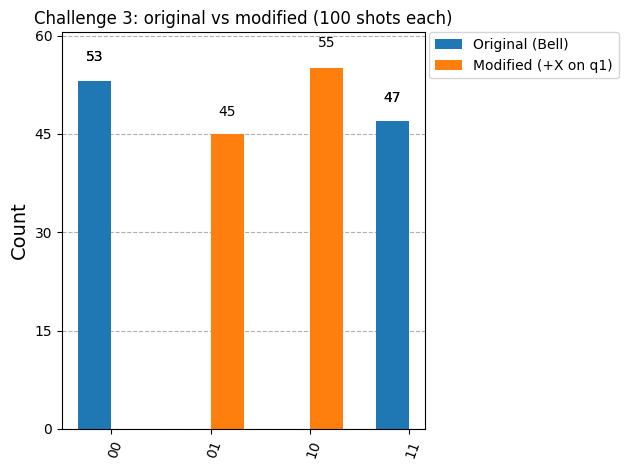
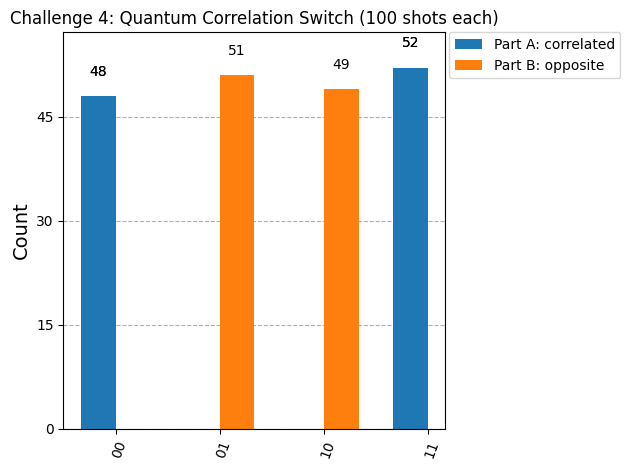
Add files via upload

diff --git a/challenge4.py b/challenge4.py
@@ -1,0 +1,99 @@
+"""
+IBM Qiskit Fall Fest 2026 - Challenge 4: Quantum Correlation Switch
+-------------------------------------------------------------------
+Part A (correlated)  : H(q0) -> CX(q0,q1)          => (|00> + |11>)/sqrt(2)
+Part B (opposite)    : H(q0) -> CX(q0,q1) -> X(q1) => (|01> + |10>)/sqrt(2)
+
+The X gate on qubit 1 is the "switch": without it the qubits agree,
+with it they disagree. Only gates from the workshop are used: H, CX, X.
+
+Install:  pip install qiskit qiskit-aer matplotlib pylatexenc
+Run:      python challenge_4.py
+"""
+
+import matplotlib
+matplotlib.use("Agg")  # remove this line to get pop-up windows instead of saved PNGs
+import matplotlib.pyplot as plt
+
+from qiskit import QuantumCircuit
+from qiskit_aer import AerSimulator
+from qiskit.visualization import plot_histogram
+
+SHOTS = 100
+sim = AerSimulator()
+
+
+def correlation_circuit(opposite: bool) -> QuantumCircuit:
+    """Build the 2-qubit circuit. opposite=False -> Part A, True -> Part B."""
+    name = "Part B: opposite (01/10)" if opposite else "Part A: correlated (00/11)"
+    qc = QuantumCircuit(2, 2, name=name)
+    qc.h(0)             # gate 1: superposition on qubit 0
+    qc.cx(0, 1)         # gate 2: entangle -> Bell state
+    if opposite:
+        qc.x(1)         # gate 3: the switch, flips qubit 1
+    qc.measure([0, 1], [0, 1])
+    return qc
+
+
+qc_a = correlation_circuit(opposite=False)   # 2 gates before measurement
+qc_b = correlation_circuit(opposite=True)    # 3 gates before measurement
+
+PREDICTIONS = {
+    qc_a.name: "Only 00 and 11 appear, ~50% each. 01 and 10 should NOT appear "
+               "(so not all four outcomes show up).",
+    qc_b.name: "Only 01 and 10 appear, ~50% each. 00 and 11 should NOT appear "
+               "(so not all four outcomes show up).",
+}
+
+# ---------------- Run ----------------
+results = {}
+for qc in (qc_a, qc_b):
+    print("=" * 66)
+    print(qc.name)
+    print(qc.draw(output="text"))
+    print("Prediction:", PREDICTIONS[qc.name])
+    counts = dict(sim.run(qc, shots=SHOTS).result().get_counts())
+    results[qc.name] = counts
+    print(f"Measured counts (100 shots): {counts}")
+
+# ---------------- Histograms ----------------
+for tag, qc in (("A", qc_a), ("B", qc_b)):
+    fig = plot_histogram(results[qc.name], title=qc.name)
+    fig.savefig(f"histogram_part_{tag}.png", bbox_inches="tight")
+    plt.close(fig)
+
+fig = plot_histogram(
+    list(results.values()),
+    legend=["Part A: correlated", "Part B: opposite"],
+    title="Challenge 4: Quantum Correlation Switch (100 shots each)",
+)
+fig.savefig("histogram_comparison.png", bbox_inches="tight")
+plt.close(fig)
+print("\nSaved: histogram_part_A.png, histogram_part_B.png, histogram_comparison.png")
+
+# ---------------- Comparison ----------------
+a, b = results[qc_a.name], results[qc_b.name]
+print("\n" + "=" * 66)
+print("COMPARISON")
+print("=" * 66)
+print(f"Part A: 00={a.get('00', 0)}, 11={a.get('11', 0)}, 01={a.get('01', 0)}, 10={a.get('10', 0)}")
+print(f"Part B: 00={b.get('00', 0)}, 11={b.get('11', 0)}, 01={b.get('01', 0)}, 10={b.get('10', 0)}")
+
+print("""
+Explanation:
+- Dominant outcomes in Part A: 00 and 11 (about 50% each). The qubits always agree.
+- Dominant outcomes in Part B: 01 and 10 (about 50% each). The qubits always differ.
+- What changed: the only difference is one extra X gate on qubit 1, placed after
+  the CNOT and before measurement.
+- Why the relationship changed: H puts qubit 0 in superposition and CX entangles
+  the qubits, giving the Bell state (|00> + |11>)/sqrt(2); measuring one qubit
+  fixes the other to the same value. The X gate flips every qubit-1 value
+  (|00> -> |01>, |11> -> |10>), turning the state into (|01> + |10>)/sqrt(2).
+  The entanglement is untouched, but 'equal' becomes 'opposite'.
+- Not all four outcomes appear: entanglement allows only two of the four
+  results in each circuit, so the other two have (ideally) zero probability.
+  Each qubit alone is still random, but the pair is perfectly correlated.
+  Counts are not exactly 50/50 because 100 shots is a small random sample.
+
+Note: Qiskit prints bits as q1 q0, so '01' means q1=0, q0=1.
+""")
